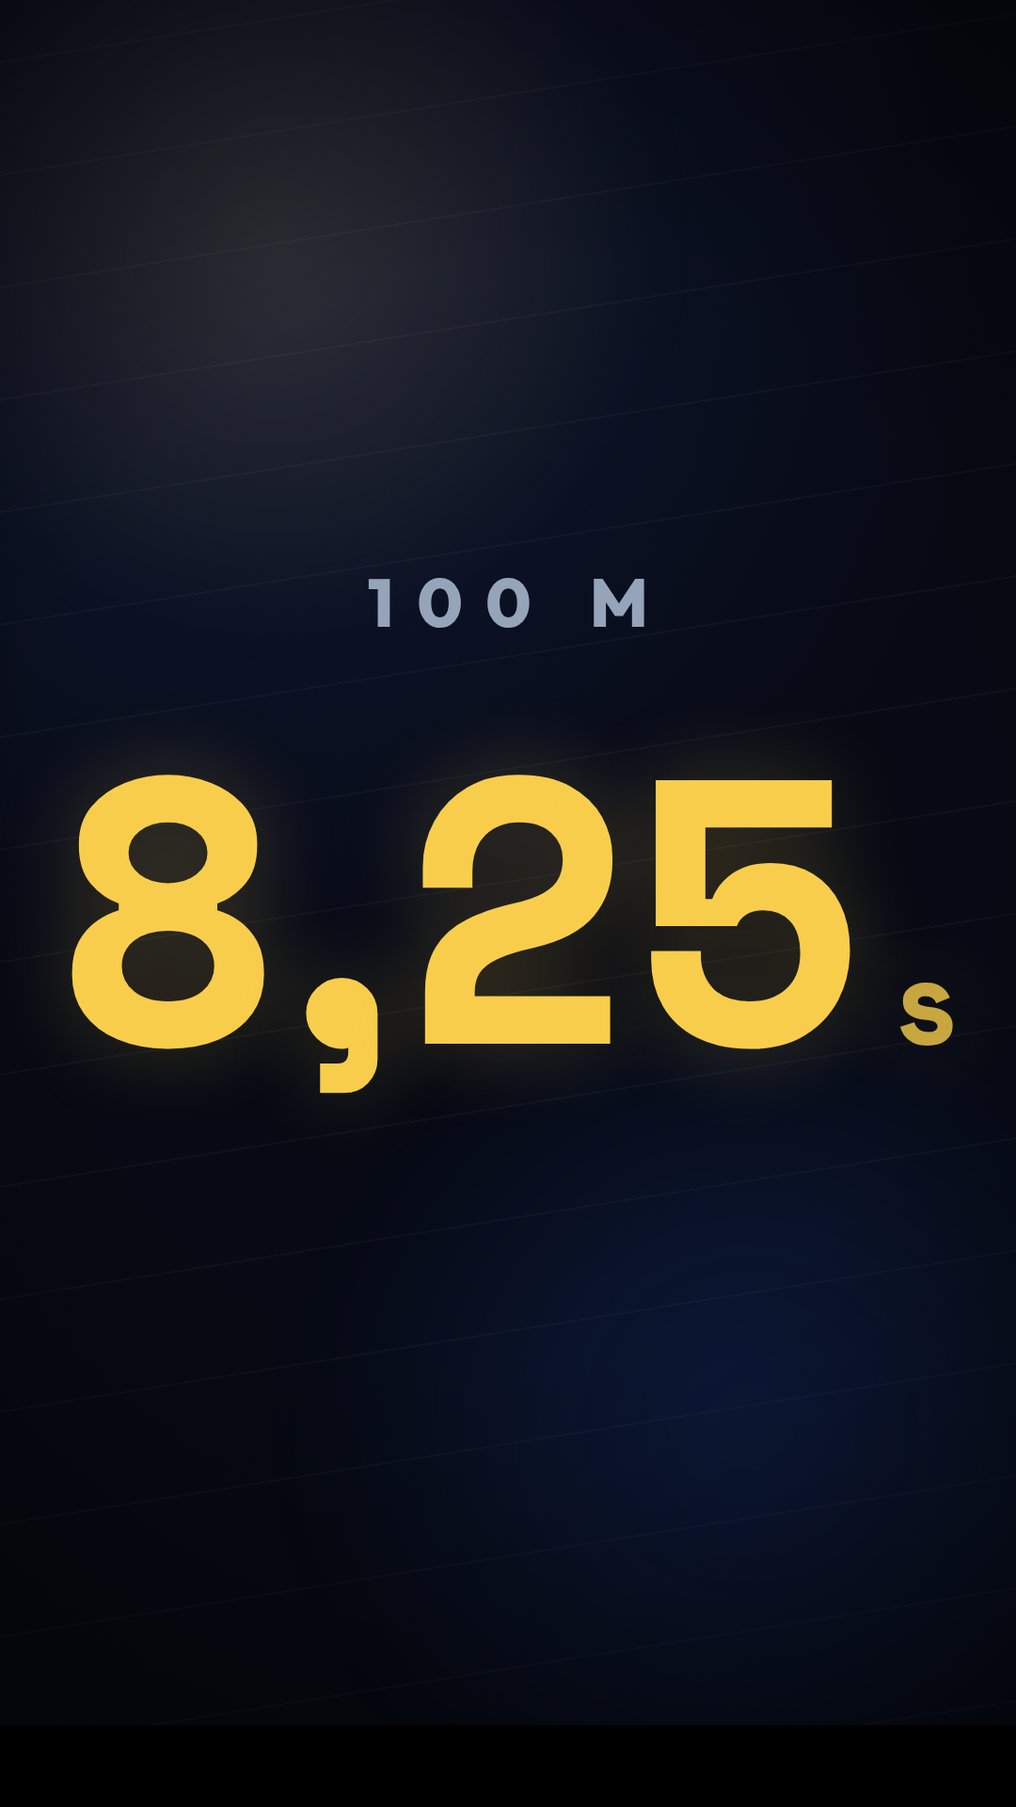
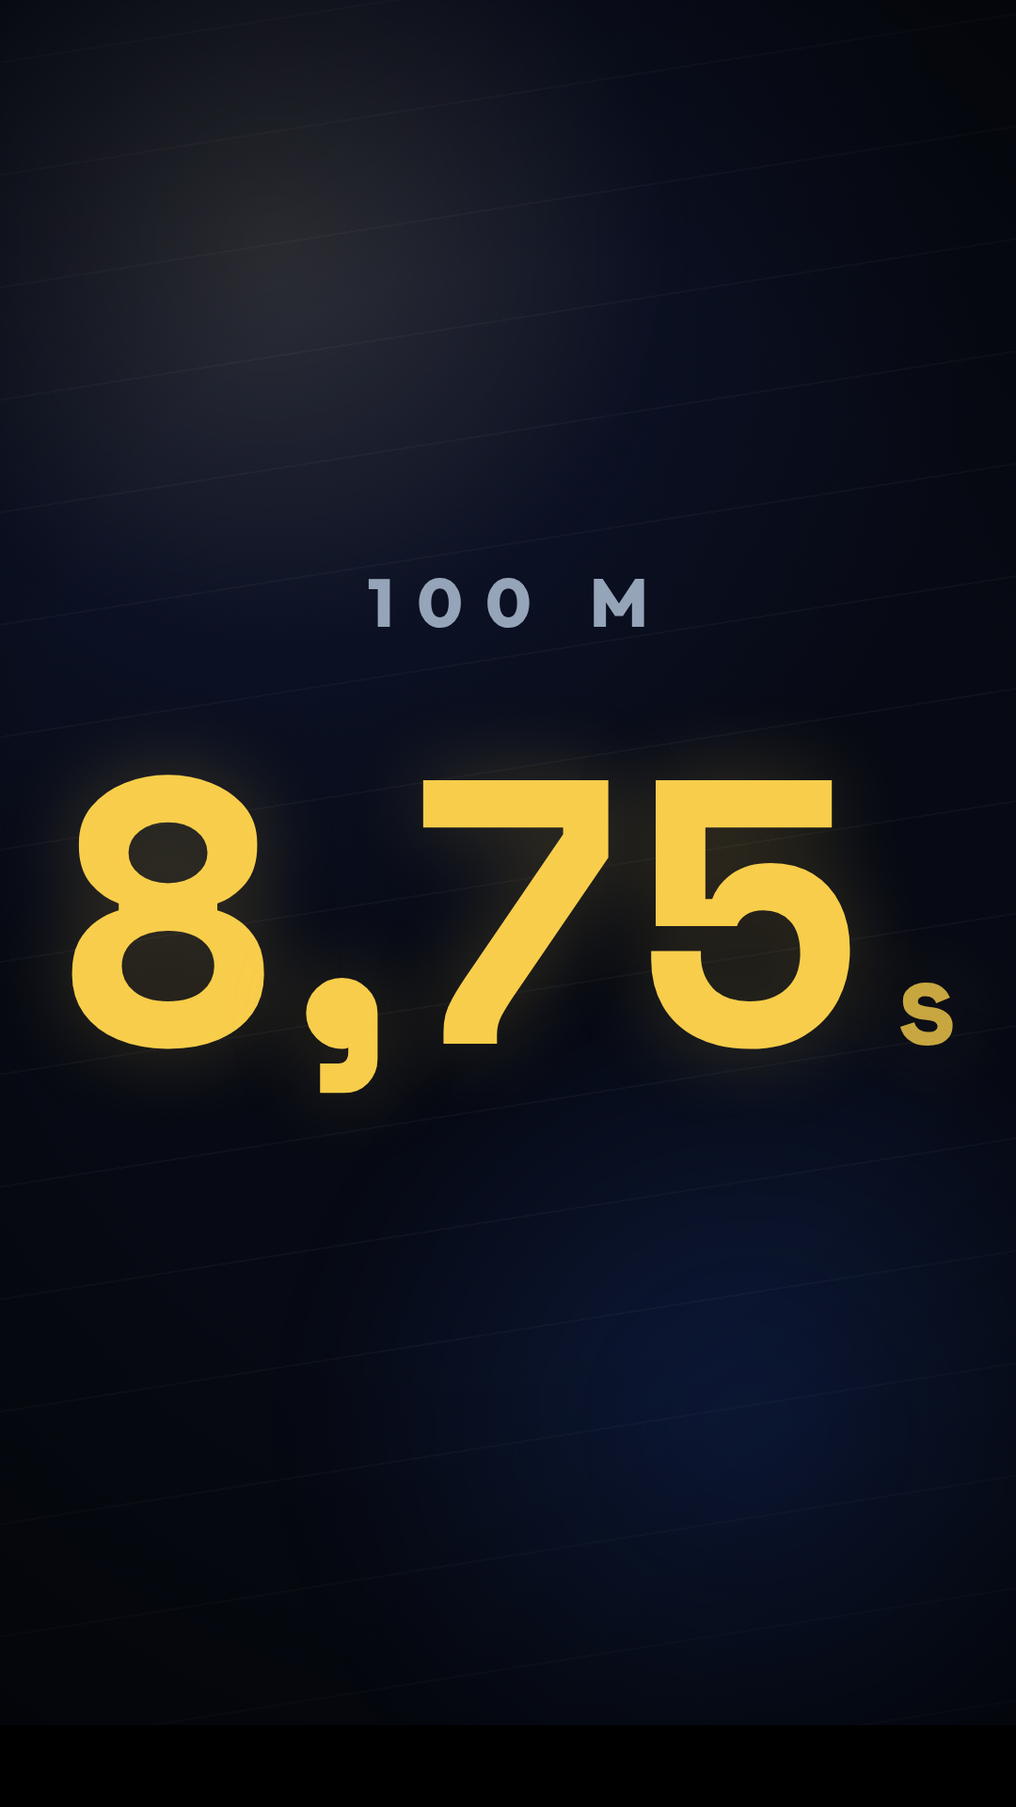
8,75 s, et l'horloge du reel se recale sur une seconde ronde
Le chrono passe de 8,25 a 8,75 s. Ce n'est pas un arrondi de confort : 8,25
tombait sous tout ce que le code documente comme atteignable, y compris sous
le plancher mesure a dix-sept appuis par seconde. Le reel aurait affiche une
marque que le jeu ne rend pas, et l'accroche « prouve-le » se serait retournee
au premier commentaire.

8,75 EST LE SEUIL QUE LE JEU DESIGNE LUI-MEME. En finale, les ZEZE courent le
100 m entre 8,75 et 9,00 s — dernier rang de `ranges`, dans `RACES['100']` —
et le commentaire d'a cote dit ce qu'il faut pour descendre dessous : treize a
quatorze appuis par seconde, « le geste d'un joueur qui s'entraine ». C'est ce
qu'une accroche doit promettre : dur, et atteignable par quelqu'un qui s'y
met. 8,61 s, le plancher, aurait ete plus spectaculaire et hors de portee.

L'AVANT-DEPART PASSE DE 0,35 A 0,25 s, et ce n'est pas un detail : la course
s'est allongee d'un demi-dixieme, et sans ce recalage la sortie tombait a 0,90
s, trop court pour poser un carton. A 0,25, la ligne tombe a 00:09,00 pile et
il reste une seconde pleine — 0,25 + 8,75 + 1,00 = 10,00, le reel dure
toujours exactement ce que l'accroche promet. Les dix passages, les deux
seuils de phase, les deux cartes du jeu et les cinq repliques sont recalcules
sur cette horloge ; aucune replique ne depasse 19 caracteres par seconde.

Le carton final entre desormais AVEC la coupe au lieu de 200 ms apres : sur
une seconde, le temps de respiration coutait plus qu'il ne rapportait, et le
[…]

Changed region(s): [[0.3972, 0.4062, 0.6111, 0.5938]]

diff --git a/assets-stores/promo/reel-100m/couverture.html b/assets-stores/promo/reel-100m/couverture.html
@@ -39,7 +39,7 @@ html,body{width:1080px;height:1920px;background:#000;overflow:hidden}
    ou rien d'autre n'entre.
 
    LA TAILLE EST DICTEE PAR LA LARGEUR, PAS PAR LA HAUTEUR. Space Mono a une
-   chasse de 0,612 em et une hauteur de chiffre de 0,72 em : « 8,25 » vaut donc
+   chasse de 0,612 em et une hauteur de chiffre de 0,72 em : « 8,75 » vaut donc
    4 x 0,612 = 2,448 em de large pour 0,72 em de haut, un rapport de 3,4 pour 1.
    Porter le chiffre au tiers de 1920 px (640 px de haut) demanderait 889 px de
    corps, soit 2 176 px de large — le double du cadre. Le chiffre est donc pose
@@ -47,7 +47,7 @@ html,body{width:1080px;height:1920px;background:#000;overflow:hidden}
    donne son tiers de hauteur. C'est cette largeur-la, de toute facon, qui le
    rend lisible en vignette : au fil, on lit large avant de lire haut.
 
-   400 px de corps, virgule resserree : « 8,25 » mesure 859 px de large sur
+   400 px de corps, virgule resserree : « 8,75 » mesure 859 px de large sur
    288 px de haut ; avec l'ecart et l'unite, le bloc fait 968 px, soit 49 px
    de marge a gauche et 64 a droite — l'unite porte son approche a elle, on
    centre sur la chasse et l'oeil, lui, se cale sur les chiffres. */
@@ -71,6 +71,6 @@ html,body{width:1080px;height:1920px;background:#000;overflow:hidden}
   <div id="glow2"></div>
   <div id="vign"></div>
   <div id="mesure">100 m</div>
-  <div id="chrono"><span class="n">8<span class="v">,</span>25</span><span class="u">s</span></div>
+  <div id="chrono"><span class="n">8<span class="v">,</span>75</span><span class="u">s</span></div>
   <div id="grain"></div>
 </div>

diff --git a/assets-stores/promo/reel-100m/LISEZMOI.md b/assets-stores/promo/reel-100m/LISEZMOI.md
@@ -8,6 +8,7 @@ dans le jeu, en une seule prise, et se monte avec ce dossier sous les yeux.
 | Format | 1080 × 1920 — 9:16 |
 | Durée | 10,00 s exactement — c'est la promesse de l'accroche |
 | Cadence | capture à 60 i/s, livraison à 30 i/s |
+| Chrono | **8,75 s** — voir « D'où vient 8,75 s » en bas |
 | Son | celui du jeu, rien d'autre |
 | Prises | une seule |
 | Coupes | une seule, à l'arrivée |
@@ -15,15 +16,15 @@ dans le jeu, en une seule prise, et se monte avec ce dossier sous les yeux.
 | Sous-titres | `sous-titres.srt` |
 
 **L'horloge du reel et celle de la course ne sont pas la même.** Le pistolet
-part à 00:00,35 du reel, jamais sur la première image : il faut avoir vu
+part à 00:00,25 du reel, jamais sur la première image : il faut avoir vu
 l'instant d'avant pour qu'un départ en soit un. Tout le reste en découle —
 
 ```
-temps reel = temps de course + 0,35 s
+temps reel = temps de course + 0,25 s
 ```
 
-La course dure 8,25 s, donc la ligne tombe à 00:08,60, et il reste 1,40 s de
-chrono figé. 0,35 + 8,25 + 1,40 = 10,00.
+La course dure 8,75 s, donc **la ligne tombe à 00:09,00 pile**, et il reste
+exactement une seconde de chrono figé. 0,25 + 8,75 + 1,00 = 10,00.
 
 ---
 
@@ -34,16 +35,16 @@ chrono du jeu à ce moment-là.
 
 | Temps | Course | Ce qu'on voit | Ce qu'on entend | Coupe |
 |---|---|---|---|---|
-| **00:00 → 00:01** | −0,35 → 0,65 | Cadre serré ×1,5 (voir plus bas). L'anneau du compte à rebours tient sur « 1 », le bandeau dit PRÊTS, le chrono du HUD est à 0.00. **00:00,35 — le pistolet** : l'anneau disparaît, le flou se lève, le chrono part. **00:00,51** : la carte du jeu `RÉACTION — 0.164 s +1.05 m/s` s'affiche. Le coureur sort des blocs. | La boucle de course tourne déjà (elle démarre au compte à rebours). Le bip du départ à 00:00,35, montant, 0,34 s. Un second bip, court, à 00:00,51 : c'est le jeu qui accuse réception de la réaction. | — |
-| **00:01 → 00:02** | 0,65 → 1,65 | Mise en action, buste incliné, foulées courtes. Le libellé de phase dit POUSSÉE. La carte RÉACTION reste pleine jusqu'à 00:01,71 puis se fond. Le chrono passe 1.00. **10 m à 00:01,93.** | La boucle, seule. | — |
-| **00:02 → 00:03** | 1,65 → 2,65 | **00:02,38 — 15 m** : le buste se redresse, le libellé passe à TRANSITION. **20 m à 00:02,83.** La carte RÉACTION s'efface à 00:02,71. **00:02,60 → 00:03,00 : le cadre s'ouvre** du ×1,5 au plein cadre, en 400 ms, ralenti sur la fin. | La boucle, seule. | — · l'ouverture est un recadrage sur la même prise, pas une coupe |
-| **00:03 → 00:04** | 2,65 → 3,65 | Plein cadre, et il n'en bougera plus. Le coureur au tiers gauche, la piste défile, la barre de progression avance sous le HUD. **30 m à 00:03,61.** Chrono en haut à droite, doré, lisible en permanence. | La boucle, seule. | — |
-| **00:04 → 00:05** | 3,65 → 4,65 | **00:04,35 — 40 m** : le corps est redressé, le jeu affiche TRANSITION PARFAITE et **un éclair blanc de 0,6 s**. Le libellé passe à VITESSE MAX. | Le bip de réussite, sur la boucle. | — · l'éclair est un effet du jeu, à ne pas confondre avec une coupe |
-| **00:05 → 00:06** | 4,65 → 5,65 | Pleine vitesse. **50 m à 00:05,06, 60 m à 00:05,77.** Plus rien ne bouge que le chrono, la barre et les jambes. C'est la seconde où l'on tient, ou bien on perd le spectateur. | La boucle, seule. | — |
-| **00:06 → 00:07** | 5,65 → 6,65 | **70 m à 00:06,46.** La carte TRANSITION s'efface à 00:06,75 : le cadre est net, il ne reste que la course et le chrono. | La boucle, seule. | — |
-| **00:07 → 00:08** | 6,65 → 7,65 | **80 m à 00:07,17, 90 m à 00:07,89.** La ligne d'arrivée entre par la droite. Le chrono passe 7. | La boucle, seule. | — |
-| **00:08 → 00:09** | 7,65 → 8,65 | **00:08,60 — le buste passe la ligne, le HUD affiche 8.25. LA COUPE.** Arrêt sur cette image : le chrono se fige, et il ne bougera plus. | **La musique est coupée net sur la coupe.** Le silence est la ponctuation ; le jeu ne donne aucun son au passage de la ligne. | **✂ 00:08,60 — la seule coupe du reel** |
-| **00:09 → 00:10** | — | L'image reste figée, chrono bloqué sur 8.25. Le carton **TON TOUR** entre à 00:08,80. | Silence. | — |
+| **00:00 → 00:01** | −0,25 → 0,75 | Cadre serré ×1,5 (voir plus bas). L'anneau du compte à rebours tient sur « 1 », le bandeau dit PRÊTS, le chrono du HUD est à 0.00. **00:00,25 — le pistolet** : l'anneau disparaît, le flou se lève, le chrono part. **00:00,41** : la carte du jeu `RÉACTION — 0.164 s +1.05 m/s` s'affiche. Le coureur sort des blocs. | La boucle de course tourne déjà (elle démarre au compte à rebours). Le bip du départ à 00:00,25, montant, 0,34 s. Un second bip, court, à 00:00,41 : c'est le jeu qui accuse réception de la réaction. | — |
+| **00:01 → 00:02** | 0,75 → 1,75 | Mise en action, buste incliné, foulées courtes. Le libellé de phase dit POUSSÉE. La carte RÉACTION reste pleine jusqu'à 00:01,61 puis se fond. Le chrono passe 1.00. **10 m à 00:01,92.** | La boucle, seule. | — |
+| **00:02 → 00:03** | 1,75 → 2,75 | **00:02,40 — 15 m** : le buste se redresse, le libellé passe à TRANSITION. La carte RÉACTION s'efface à 00:02,61. **20 m à 00:02,88.** **00:02,60 → 00:03,00 : le cadre s'ouvre** du ×1,5 au plein cadre, en 400 ms, ralenti sur la fin. | La boucle, seule. | — · l'ouverture est un recadrage sur la même prise, pas une coupe |
+| **00:03 → 00:04** | 2,75 → 3,75 | Plein cadre, et il n'en bougera plus. Le coureur au tiers gauche, la piste défile, la barre de progression avance sous le HUD. **30 m à 00:03,70.** Chrono en haut à droite, doré, lisible en permanence. | La boucle, seule. | — |
+| **00:04 → 00:05** | 3,75 → 4,75 | **00:04,49 — 40 m** : le corps est redressé, le jeu affiche TRANSITION PARFAITE et **un éclair blanc de 0,6 s**. Le libellé passe à VITESSE MAX. | Le bip de réussite, sur la boucle. | — · l'éclair est un effet du jeu, à ne pas confondre avec une coupe |
+| **00:05 → 00:06** | 4,75 → 5,75 | Pleine vitesse. **50 m à 00:05,25, 60 m à 00:06,00.** Plus rien ne bouge que le chrono, la barre et les jambes. C'est la seconde où l'on tient, ou bien on perd le spectateur. | La boucle, seule. | — |
+| **00:06 → 00:07** | 5,75 → 6,75 | **70 m à 00:06,73.** La carte TRANSITION s'efface à 00:06,89 : le cadre est net, il ne reste que la course et le chrono. | La boucle, seule. | — |
+| **00:07 → 00:08** | 6,75 → 7,75 | **80 m à 00:07,48.** La ligne d'arrivée entre par la droite. Le chrono passe 7. | La boucle, seule. | — |
+| **00:08 → 00:09** | 7,75 → 8,75 | **90 m à 00:08,24.** Puis, à **00:09,00 — le buste passe la ligne, le HUD affiche 8.75. LA COUPE.** Arrêt sur cette image : le chrono se fige, et il ne bougera plus. | **La musique est coupée net sur la coupe.** Le silence est la ponctuation ; le jeu ne donne aucun son au passage de la ligne. | **✂ 00:09,00 — la seule coupe du reel** |
+| **00:09 → 00:10** | — | L'image reste figée, chrono bloqué sur 8.75. Le carton **TON TOUR** entre avec la coupe et tient la seconde entière. | Silence. | — |
 
 Le reel boucle : la dernière image est un silence et la première est une
 boucle qui tourne déjà. Instagram enchaîne les deux sans qu'on l'entende.
@@ -51,25 +52,25 @@ boucle qui tourne déjà. Instagram enchaîne les deux sans qu'on l'entende.
 ### Où en est le coureur, seconde par seconde
 
 D'où viennent les repères du tableau. Les passages sont ceux d'un 100 m couru
-en 8,25 s, répartis comme le sont les passages réels d'un sprint — l'appui
+en 8,75 s, répartis comme le sont les passages réels d'un sprint — l'appui
 n'arrive pas au dixième près, mais il dit à l'image près où doit se trouver le
 coureur, et si la prise dérive de plus de deux dixièmes, elle est à refaire.
 
 | Passage | Course | Reel |
 |---|---|---|
-| 10 m | 1,58 s | 00:01,93 |
-| 20 m | 2,48 s | 00:02,83 |
-| 30 m | 3,26 s | 00:03,61 |
-| 40 m | 4,00 s | 00:04,35 |
-| 50 m | 4,71 s | 00:05,06 |
-| 60 m | 5,42 s | 00:05,77 |
-| 70 m | 6,11 s | 00:06,46 |
-| 80 m | 6,82 s | 00:07,17 |
-| 90 m | 7,54 s | 00:07,89 |
-| 100 m | 8,25 s | **00:08,60** |
+| 10 m | 1,67 s | 00:01,92 |
+| 20 m | 2,63 s | 00:02,88 |
+| 30 m | 3,45 s | 00:03,70 |
+| 40 m | 4,24 s | 00:04,49 |
+| 50 m | 5,00 s | 00:05,25 |
+| 60 m | 5,75 s | 00:06,00 |
+| 70 m | 6,48 s | 00:06,73 |
+| 80 m | 7,23 s | 00:07,48 |
+| 90 m | 7,99 s | 00:08,24 |
+| 100 m | 8,75 s | **00:09,00** |
 
-Les deux seuils de phase du jeu tombent à 15 m (00:02,38, POUSSÉE →
-TRANSITION) et à 40 m (00:04,35, TRANSITION → VITESSE MAX, avec la note et
+Les deux seuils de phase du jeu tombent à 15 m (00:02,40, POUSSÉE →
+TRANSITION) et à 40 m (00:04,49, TRANSITION → VITESSE MAX, avec la note et
 l'éclair).
 
 ### Le cadre serré des trois premières secondes
@@ -101,12 +102,12 @@ marcher dessus.
 
 ## 2. Les cartons
 
-Trois cartons, jamais deux à la fois. Outfit 800 en capitales pour ce qui se lit,
-Space Mono 700 pour ce qui se mesure — la charte du dossier `promo`.
+Trois cartons, jamais deux à la fois. Outfit 800 en capitales pour ce qui se
+lit, Space Mono 700 pour ce qui se mesure — la charte du dossier `promo`.
 Entrées et sorties en 120 ms d'opacité, sans glissement : à cette vitesse un
 mouvement ne se lit pas, il salit.
 
-### C1 — l'accroche · 00:00,20 → 00:02,90
+### C1 — l'accroche · 00:00,15 → 00:02,90
 
 > **TU PENSES AVOIR DES RÉFLEXES ?**
 > **PROUVE-LE EN 10 SECONDES.**
@@ -115,22 +116,22 @@ Outfit 800, 76 px, interligne 1,12, centré, bande 560 → 940. Première ligne 
 blanc `#EEF0F8`, seconde en doré `#F8CD4A`. Ombre portée `0 4px 24px #000A`
 pour tenir sur la piste claire.
 
-C'est le carton qui retient ou qui perd, et il est en place à 00:00,20 —
+C'est le carton qui retient ou qui perd, et il est en place à 00:00,15 —
 avant le pistolet. On ne lit pas une accroche pendant qu'on regarde un départ.
 
-### C2 — le chrono à battre · 00:02,90 → 00:04,30
+### C2 — le chrono à battre · 00:02,90 → 00:04,40
 
 > À BATTRE
-> **8,25 s**
+> **8,75 s**
 
 Le libellé en Space Mono 700, 30 px, interlettrage 0,42 em, doré. Le chiffre
 en Space Mono 700, 132 px, doré. Même bande, 560 → 940.
 
 Il entre à l'instant exact où le cadre s'ouvre : la course prend sa taille
-réelle et le chiffre à battre arrive avec elle. Il sort à 00:04,30, juste
+réelle et le chiffre à battre arrive avec elle. Il sort à 00:04,40, juste
 avant que le jeu affiche sa carte TRANSITION — deux textes ne se croisent pas.
 
-### C3 — ton tour · 00:08,80 → 00:10,00
+### C3 — ton tour · 00:09,00 → 00:10,00
 
 > **TON TOUR**
 > sprinter-game.com
@@ -138,10 +139,11 @@ avant que le jeu affiche sa carte TRANSITION — deux textes ne se croisent pas.
 Outfit 800, 92 px, blanc. Dessous, l'adresse en Space Mono 700, 32 px,
 interlettrage 0,3 em, doré. Bande 560 → 940, sur l'image figée.
 
-Le carton entre 200 ms **après** la coupe : le chrono figé se lit d'abord
-seul. L'adresse ne figure pas dans la commande — un reel qui accroche sans
-dire où jouer se termine sur rien, et c'est le seul endroit du montage où
-elle tient sans gêner.
+Il entre **avec** la coupe, pas après : la seconde qui reste est courte, et le
+chrono figé vit en haut à droite pendant que le carton vit au milieu — ils ne
+se disputent rien. L'adresse ne figure pas dans la commande ; un reel qui
+accroche sans dire où jouer se termine sur rien, et c'est le seul endroit du
+montage où elle tient sans gêner.
 
 ---
 
@@ -157,7 +159,8 @@ raconte rien à qui regarde sans le son, c'est-à-dire à presque tout le monde.
 et il n'y en a pas : la piste automatique resterait vide. Le `.srt` est la
 source, l'image est la livraison.
 
-Plus de 20 caractères par seconde ne se lit pas. Chaque réplique s'y tient.
+Plus de 20 caractères par seconde ne se lit pas. Chaque réplique s'y tient —
+la plus dense est la deuxième, à 19.
 
 ---
 
@@ -170,13 +173,13 @@ CHROME=/chemin/vers/chrome ./couverture.sh
 ```
 
 Deux choses dessus, rien d'autre : « 100 M » en Outfit 800 capitales, petit et
-gris ; « 8,25 s » en Space Mono 700, doré, sur le fond de nuit de la charte.
+gris ; « 8,75 s » en Space Mono 700, doré, sur le fond de nuit de la charte.
 L'or n'est porté que par le chiffre — deux ors se disputeraient l'œil à la
 taille d'un ongle, et c'est le chiffre qui doit gagner.
 
 **Le chiffre est aussi grand que la largeur le permet, et c'est la bande qui
 lui donne son tiers de hauteur.** Space Mono a une chasse de 0,612 em pour une
-hauteur de chiffre de 0,72 em : « 8,25 » vaut donc 2,448 em de large pour
+hauteur de chiffre de 0,72 em : « 8,75 » vaut donc 2,448 em de large pour
 0,72 em de haut, un rapport de 3,4 pour 1. Porter le chiffre à 640 px de haut
 — le tiers de 1920 — demanderait 889 px de corps, soit **2 176 px de large,
 le double du cadre**. À 400 px de corps, virgule resserrée, il mesure 859 px
@@ -198,7 +201,14 @@ jeu, pas d'une intention : ce sont les conditions qui donnent l'image décrite
 plus haut.
 
 - **Mode One Shot, 100 m seul.** Un programme à une seule épreuve : à deux ou
-  plus, le jeu ajoute une pastille `ÉPREUVE 1/3` au compte à rebours.
+  plus, le jeu ajoute une pastille `ÉPREUVE 1/3` au compte à rebours. Et le
+  One Shot se rejoue à volonté, ce qu'il faut pour sortir la course voulue.
+- **Niveau : Jeux olympiques**, celui que le sélecteur propose par défaut. Le
+  favori annoncé y tourne entre 9,58 et 9,85 s, donc la course se gagne
+  largement et le HUD affiche `1er` du début à la fin. Le dernier niveau
+  aligne les ZEZE, dont le meilleur court précisément entre 8,75 et 9,00 s :
+  la course s'y jouerait à rien, et le reel montrerait peut-être une deuxième
+  place.
 - **Aucun record personnel sur le 100 m.** Le HUD garde alors le chrono en
   **doré** et n'affiche pas la ligne `RECORD` en dessous. Avec un record, le
   chrono vire au vert tant qu'on est dedans puis au rouge quand il est perdu :
@@ -207,14 +217,15 @@ plus haut.
   et c'est elle qui prouve que les cent mètres y passent tous.
 - **Langue française** (touche `L`), son du jeu activé, micro fermé à
   l'enregistrement : on veut les bips et la boucle, pas la pièce autour.
-- **Le niveau** : le One Shot se cale sur les Jeux olympiques. La boucle est
-  celle de ce niveau, 140 bpm, et le favori annoncé tourne entre 9,58 et
-  9,85 s.
 - **Réaction visée : entre 0,156 et 0,32 s.** En dessous de 0,156 le jeu écrit
   `RÉACTION PARFAITE` et non `RÉACTION`. À 0,164 s il affiche
   `0.164 s +1.05 m/s`, ce qui est le carton décrit dans le plan.
+- La pastille du jeu qui annonce l'adversaire (`à battre : … — 9.7x s`) est à
+  l'écran pendant le compte à rebours, donc pendant les 0,25 s d'avant-départ.
+  Personne ne la lit en sept images ; si elle gêne quand même, commencer la
+  prise deux images plus tard.
 - Le HUD écrit `0.164` avec un point ; les cartons, les sous-titres et la
-  couverture écrivent `8,25` avec une virgule. C'est voulu : le jeu formate en
+  couverture écrivent `8,75` avec une virgule. C'est voulu : le jeu formate en
   chiffres bruts, la publication est en français.
 
 ### Le chrono ne se fige pas tout seul
@@ -222,9 +233,9 @@ plus haut.
 Le jeu ne gèle pas le chrono au passage de la ligne : il continue de compter
 environ trois secondes après, le temps que le coureur décélère, avant de
 rendre la main à l'écran de résultat. **L'arrêt sur image est donc un geste de
-montage**, et c'est exactement la coupe de 00:08,60.
+montage**, et c'est exactement la coupe de 00:09,00.
 
-Prendre l'image où le HUD affiche `8.25` **et** où le buste est sur la ligne.
+Prendre l'image où le HUD affiche `8.75` **et** où le buste est sur la ligne.
 Si les deux tombent à une image d'écart, garder celle du chrono : c'est le
 chiffre qui est le sujet.
 
@@ -232,29 +243,37 @@ chiffre qui est le sujet.
 
 - **Aucune accélération.** Le chrono est à l'image du début à la fin ; il
   dirait lui-même que la course a été poussée.
-- **Aucune coupe entre 00:00 et 00:08,60.** L'ouverture du cadre à 00:03 est
+- **Aucune coupe entre 00:00 et 00:09,00.** L'ouverture du cadre à 00:03 est
   un recadrage, pas un raccord.
-- **Aucun son ajouté.** Le son du jeu suffit, et le silence des 1,4 dernières
-  secondes fait le point final.
+- **Aucun son ajouté.** Le son du jeu suffit, et le silence de la dernière
+  seconde fait le point final.
 
 ---
 
-## Une réserve sur 8,25 s
+## D'où vient 8,75 s
 
-Le chiffre est tenu partout — couverture, carton, sous-titres — parce que
-c'est la commande. Mais **le jeu, tel qu'il est, ne le rend probablement pas
-atteignable**, et les mesures sont dans le code :
+Le chiffre n'est pas choisi pour sonner bien : c'est le seuil que le jeu
+lui-même désigne. En finale, les ZEZE courent le 100 m entre 8,75 et 9,00 s —
+`RACES['100']`, dernier rang de `ranges`. Descendre sous 8,75 s, c'est battre
+le meilleur adversaire du jeu, et le code dit ce que cela demande :
 
-> `src/game/sprinter-core.js`, `RACES['100']` — « Mesuré sur cette physique,
-> avec une alternance parfaite et sans faux pas : 10,25 s à huit appuis par
-> seconde, 9,22 s à dix, 8,87 s à treize, 8,61 s à dix-sept. »
+> `src/game/sprinter-core.js` — « Mesuré sur cette physique, avec une
+> alternance parfaite et sans faux pas : 10,25 s à huit appuis par seconde,
+> 9,22 s à dix, 8,87 s à treize, 8,61 s à dix-sept. Battre le meilleur ZEZE
+> demande donc d'y tenir treize à quatorze appuis, ce qui est le geste d'un
+> joueur qui s'entraîne. »
 
-8,61 s à dix-sept appuis par seconde est le plancher relevé, et le meilleur
-adversaire du jeu, en finale ZEZE, court entre 8,75 et 9,00 s. 8,25 s tombe
-sous tout ce que le code documente comme atteignable.
+C'est exactement ce qu'une accroche doit promettre : dur, mais atteignable par
+quelqu'un qui s'y met. **8,61 s**, le plancher relevé à dix-sept appuis par
+seconde, tiendrait aussi — plus spectaculaire, mais hors de portée de presque
+tout le monde, et une accroche que personne ne relève se retourne en
+commentaires.
 
-Un reel qui affiche un chrono que personne ne peut battre se fait reprendre en
-commentaires, et l'accroche se retourne. Deux chiffres tiendraient la même
-promesse en restant vrais : **8,61 s**, le plancher mesuré, ou **8,75 s**, le
-seuil qui bat le meilleur ZEZE. Les trois fichiers de ce dossier changent en
-une passe si le chiffre change.
+La commande demandait 8,25 s. Ce chrono tombe sous tout ce que le code
+documente comme atteignable, y compris sous le plancher mesuré : il aurait
+affiché une marque que le jeu ne rend pas.
+
+Le chiffre vit à quatre endroits — la couverture et sa source, le carton C2,
+la deuxième et la cinquième réplique du `.srt` — et l'horloge du reel en
+dépend : changer le chrono, c'est recalculer l'avant-départ pour que la ligne
+retombe sur une seconde ronde et que le total reste à 10,00 s.
